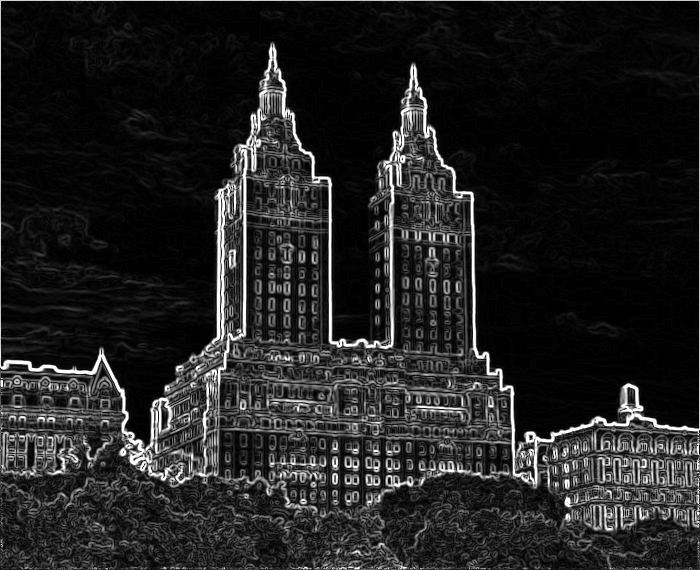
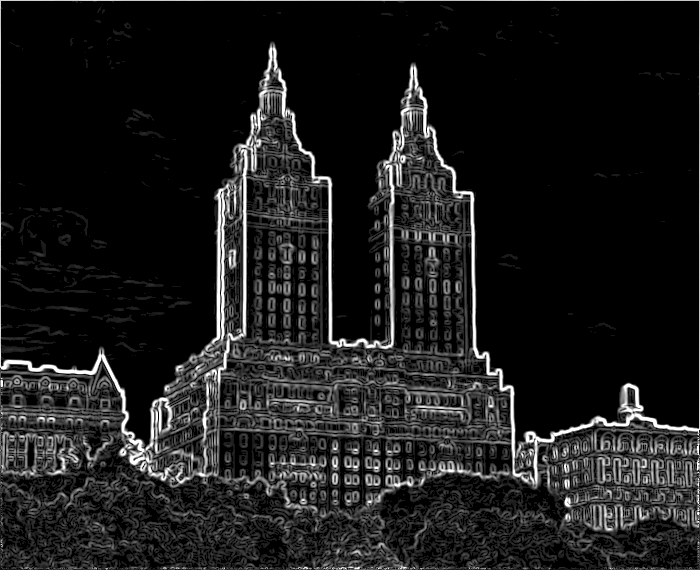
updated

diff --git a/Algorithms/Sections/Filters.cs b/Algorithms/Sections/Filters.cs
@@ -137,7 +137,7 @@ namespace Algorithms.Sections
         } 
         public static Image<Gray, byte> SobelFilter(Image<Gray, byte> inputImage)
         {
-            inputImage = GaussianFilter(inputImage, 1.4);
+            inputImage = GaussianFilter(inputImage, 1.2);
             Image<Gray, byte> result = inputImage.Clone();
 
 
@@ -158,6 +158,7 @@ namespace Algorithms.Sections
 
 
                     double G = Math.Sqrt(Sx * Sx + Sy * Sy); //imagine gradient Grad(x,y)
+
                     if (G > 20)
                     {
                         result[u, v] = new Gray(G);
@@ -226,6 +227,7 @@ namespace Algorithms.Sections
                 neighborValue2 = result[u + 1, v].Intensity;
 
                 double maxGradient = Math.Max(Math.Max(currentPixelValue, neighborValue1), neighborValue2);
+
                 if (maxGradient != currentPixelValue)
                     result[u, v] = new Gray(0);
                 if (maxGradient != neighborValue1)
@@ -233,13 +235,11 @@ namespace Algorithms.Sections
                 if (maxGradient != neighborValue2)
                     result[u + 1, v] = new Gray(0);
 
-            
-
-                    if (currentPixelValue == neighborValue1)
+                    if (currentPixelValue == neighborValue1 && currentPixelValue !=neighborValue2)
                     {
                         result[u-1, v] = new Gray(0); // Păstrăm doar pixelul la stânga
                     }
-                    else if (currentPixelValue == neighborValue2)
+                    else if (currentPixelValue == neighborValue2 && currentPixelValue != neighborValue1)
                     {
                         result[u+1, v] = new Gray(0); // Păstrăm doar pixelul la dreapta
                     }
@@ -261,11 +261,11 @@ namespace Algorithms.Sections
                 //cazul in care am doua valori egale
                
                    
-                    if (currentPixelValue == neighborValue1)
+                    if (currentPixelValue == neighborValue1 && currentPixelValue!=neighborValue2)
                     {
                         result[u, v - 1] = new Gray(0); // Păstrăm doar pixelul la stânga
                     }
-                    else if (currentPixelValue == neighborValue2)
+                    else if (currentPixelValue == neighborValue2 && currentPixelValue != neighborValue1)
                     {
                         result[u, v + 1] = new Gray(0); // Păstrăm doar pixelul la dreapta
                     }
@@ -287,11 +287,11 @@ namespace Algorithms.Sections
 
                 //cazul in care am doua valori egale
                
-                    if (currentPixelValue == neighborValue1)
+                    if (currentPixelValue == neighborValue1 && currentPixelValue != neighborValue2)
                     {
                         result[u-1, v + 1] = new Gray(0); // Păstrăm doar pixelul la stânga
                     }
-                    else if (currentPixelValue == neighborValue2)
+                    else if (currentPixelValue == neighborValue2 && currentPixelValue != neighborValue1)
                     {
                         result[u + 1, v - 1] = new Gray(0); // Păstrăm doar pixelul la dreapta
                     }
@@ -312,11 +312,11 @@ namespace Algorithms.Sections
 
                 //cazul in care am doua valori egale
                 
-                    if (currentPixelValue == neighborValue1)
+                    if (currentPixelValue == neighborValue1 && currentPixelValue != neighborValue2)
                     {
                         result[u - 1 , v - 1] = new Gray(0); // Păstrăm doar pixelul la stânga
                     }
-                    else if (currentPixelValue == neighborValue2)
+                    else if (currentPixelValue == neighborValue2 && currentPixelValue != neighborValue1)
                     {
                         result[u +1 , v + 1] = new Gray(0); // Păstrăm doar pixelul la dreapta
                     }
@@ -344,7 +344,10 @@ namespace Algorithms.Sections
                         result[u, v] = new Gray(255);
                     }
                     else
-                    {
+
+                    //cazul in care valoarea pixelului este intre tMin si tMax
+                    //verific daca are vecini cu norma gradientului mai mare decat tMax
+                    { 
                         bool hasStrongNeighbor = false;
                         for (int i = u - 1; i <= u + 1; i++)
                         {
@@ -368,41 +371,11 @@ namespace Algorithms.Sections
             }
             return result;
         }
-        public static Image<Gray, byte> CannyFilter(Image<Gray, byte> inputImage, double tMin, double tMax)
-        {
-            inputImage= HysteresisThresholding(inputImage, tMin, tMax);
-            Image<Gray, byte> result = inputImage.Clone();
-
-            for (int u = 1; u < inputImage.Rows - 1; u++)
-            {
-                for (int v = 1; v < inputImage.Cols - 1; v++)
-                {
-                   bool hasStrongNeighbor = false;
-                        for (int i = u - 1; i <= u + 1; i++)
-                        {
-                            for (int j = v - 1; j <= v + 1; j++)
-                            {
-                                if (result[i, j].Intensity > tMax)
-                                {
-                                    hasStrongNeighbor = true;
-                                    break;
-                                }
-                            }
-                            if (hasStrongNeighbor)
-                                break;
-                        }
-                        if (hasStrongNeighbor)
-                            result[u, v] = new Gray(255);
-                        else
-                            result[u, v] = new Gray(0);                
-                }
-            }
-            return result;
-        }
         public static Image<Bgr, byte> ColorEdgesByOrientation(Image<Gray, byte> inputImage)
         {
+            inputImage=GaussianFilter(inputImage,1.2);
+
             Image<Bgr, byte> result = inputImage.Clone().Convert<Bgr, byte>();
-            //Image<Gray, byte> result = inputImage.Clone();
 
 
             for (int u = 1; u < inputImage.Rows - 1; u++)

diff --git a/Framework/ViewModel/Commands/MenuCommands.cs b/Framework/ViewModel/Commands/MenuCommands.cs
@@ -1002,7 +1002,7 @@ namespace Framework.ViewModel
 
             if (GrayInitialImage != null)
             {
-                GrayProcessedImage = Filters.GaussianFilter(GrayInitialImage, 1.4);
+                GrayProcessedImage = Filters.GaussianFilter(GrayInitialImage, 1.2);
                 ProcessedImage = Convert(GrayProcessedImage);
                 }
                
@@ -1056,7 +1056,7 @@ namespace Framework.ViewModel
             ClearProcessedCanvas(parameter);
             if (GrayInitialImage != null)
             {
-                GrayInitialImage = Filters.GaussianFilter(GrayInitialImage, 1.4);
+                //GrayInitialImage = Filters.GaussianFilter(GrayInitialImage, 1.2);
                 ColorProcessedImage = Filters.ColorEdgesByOrientation(GrayInitialImage);
                 ProcessedImage = Convert(ColorProcessedImage);
             }
@@ -1117,40 +1117,6 @@ namespace Framework.ViewModel
                 if (GrayInitialImage != null)
                 {
                     GrayProcessedImage = Filters.HysteresisThresholding(GrayInitialImage, values[0], values[1]);
-                    ProcessedImage = Convert(GrayProcessedImage);
-                }
-            }
-        }
-
-        private ICommand _cannyFilterCommand;
-        public ICommand CannyFilterCommand
-        {
-            get
-            {
-                if (_cannyFilterCommand == null)
-                    _cannyFilterCommand = new RelayCommand(CannyFilterImage);
-                return _cannyFilterCommand;
-            }
-        }
-        private void CannyFilterImage(object parameter)
-        {
-            if (InitialImage == null)
-            {
-                MessageBox.Show("Please add an image !");
-                return;
-            }
-            ClearProcessedCanvas(parameter);
-            List<string> parameters = new List<string>();     
-            parameters.Add("T min");
-            parameters.Add("T max");
-            DialogBox box = new DialogBox(_mainVM, parameters);
-            box.ShowDialog();
-            List<double> values = box.GetValues();
-            if (values != null)
-            {
-                if (GrayInitialImage != null)
-                {
-                    GrayProcessedImage = Filters.CannyFilter(GrayInitialImage, values[0], values[1]);
                     ProcessedImage = Convert(GrayProcessedImage);
                 }
             }
